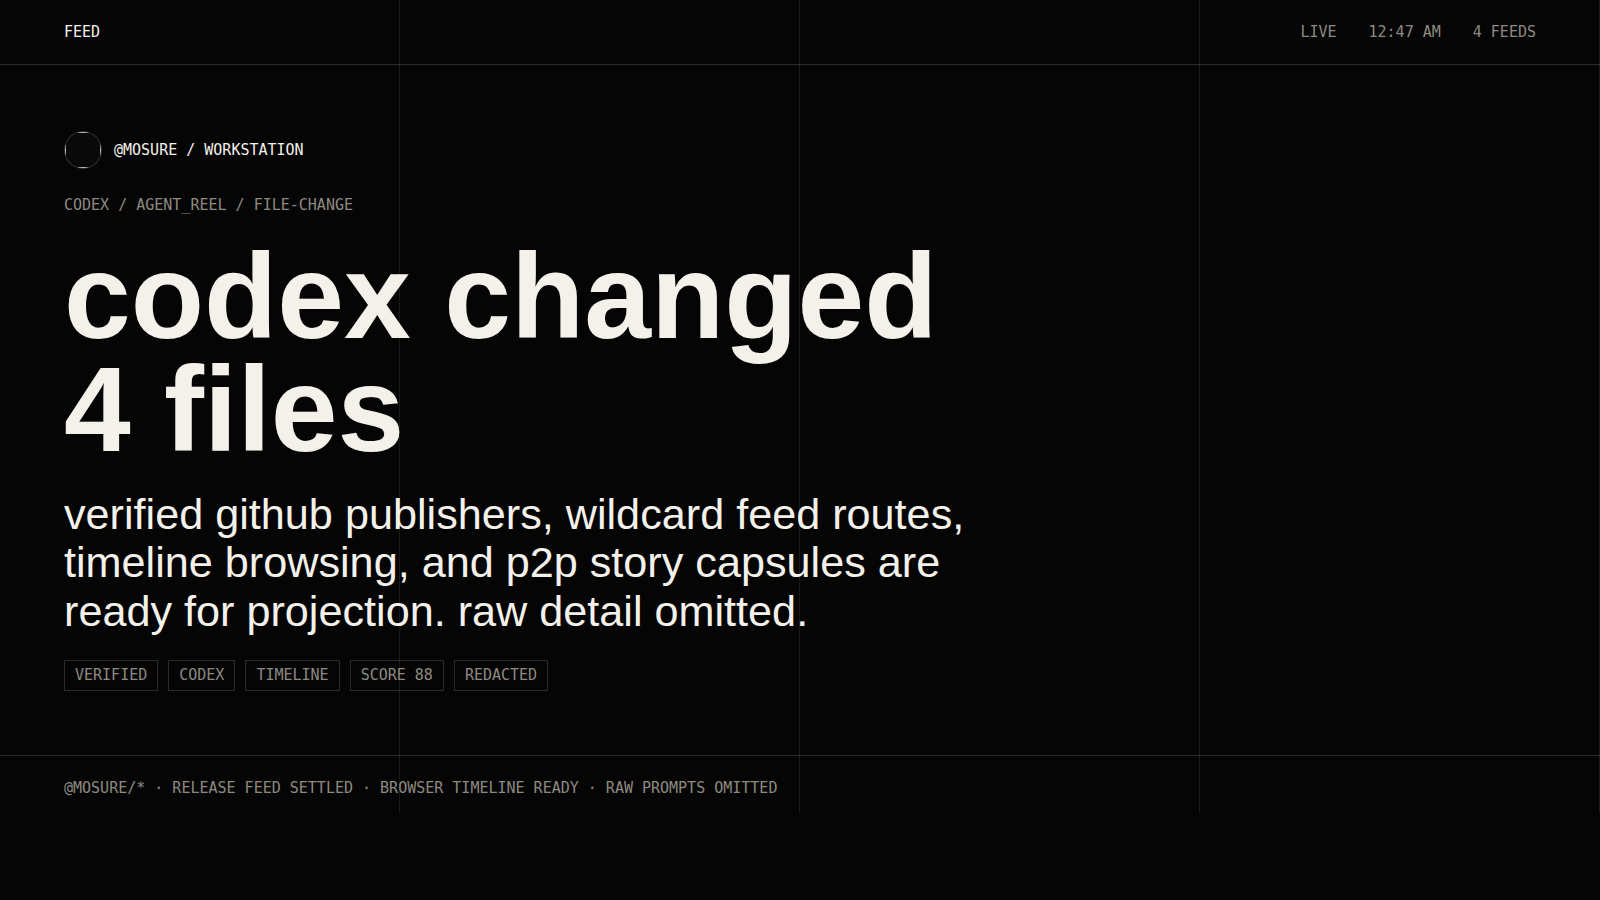
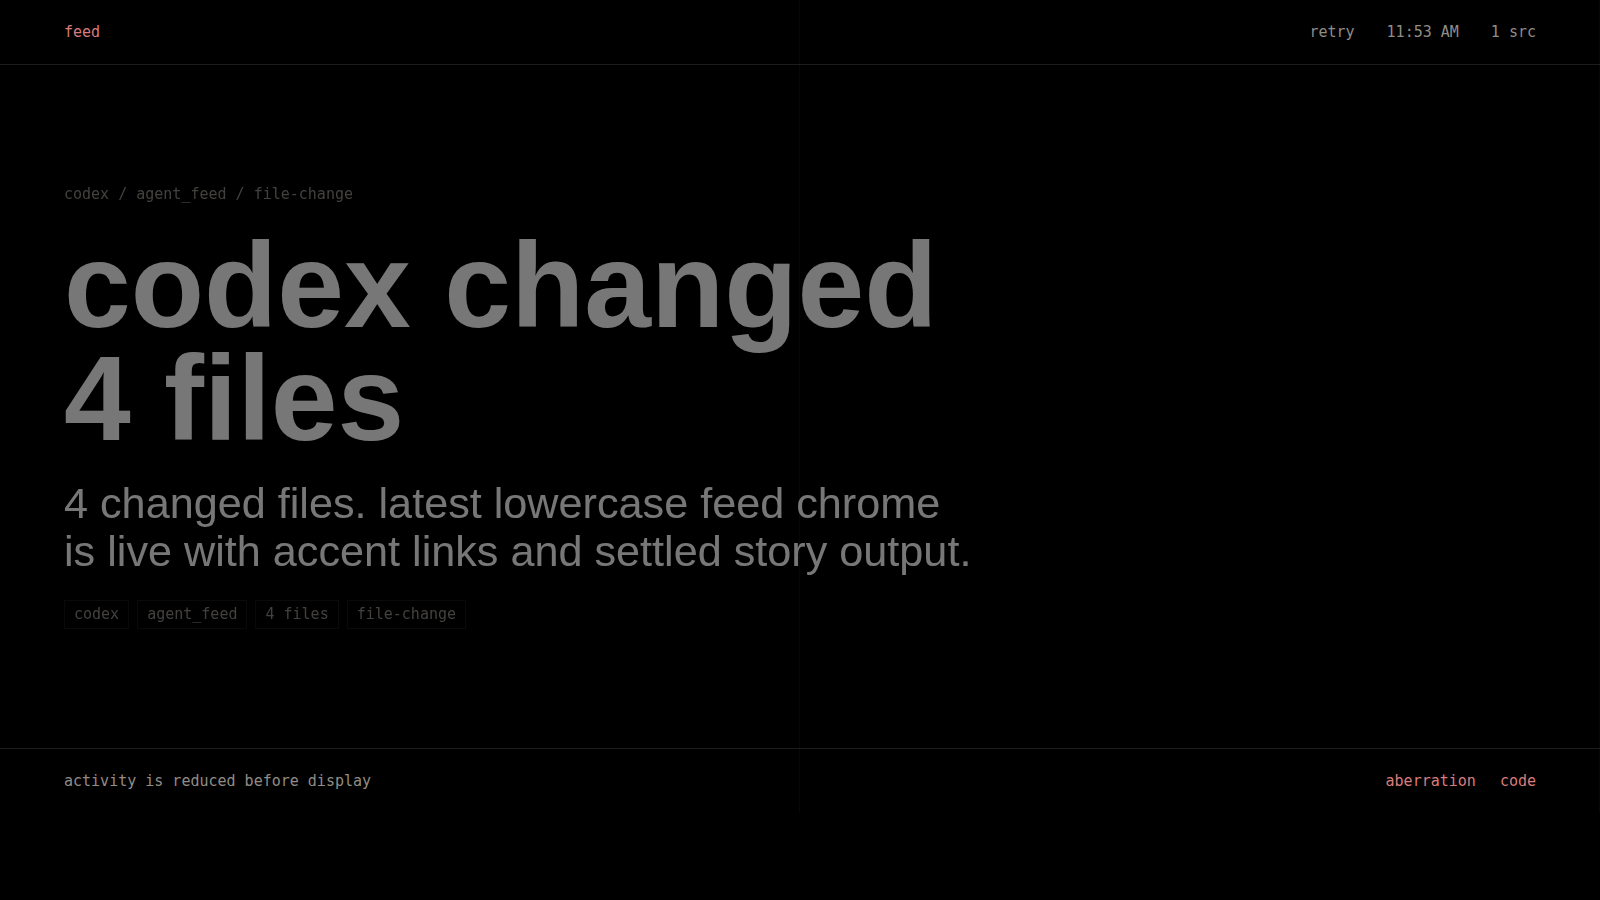
docs: refresh lowercase feed hero

diff --git a/crates/agent_feed_story/src/lib.rs b/crates/agent_feed_story/src/lib.rs
@@ -218,10 +218,10 @@ impl CompiledStory {
     fn eyebrow(&self) -> String {
         let project = self.project.as_deref().unwrap_or("local");
         format!(
-            "{} / {} / {:?}",
-            self.agent.to_ascii_uppercase(),
-            project.to_ascii_uppercase(),
-            self.family
+            "{} / {} / {}",
+            self.agent,
+            project,
+            story_family_label(self.family)
         )
     }
 }
@@ -713,6 +713,12 @@ mod tests {
         assert_eq!(stories.len(), 1);
         assert!(stories[0].headline.contains("codex changed"));
         assert!(stories[0].deck.contains("changed files"));
+        assert!(
+            stories[0]
+                .to_bulletin()
+                .eyebrow
+                .contains("codex / agent_feed / file-change")
+        );
         assert!(!stories[0].deck.contains("raw detail omitted"));
         assert!(!stories[0].deck.contains("cargo test --all"));
     }

diff --git a/crates/agent_feed_highlight/src/lib.rs b/crates/agent_feed_highlight/src/lib.rs
@@ -95,12 +95,7 @@ fn mode_for(kind: EventKind) -> BulletinMode {
 
 fn eyebrow(event: &AgentEvent) -> String {
     let project = event.project.as_deref().unwrap_or("local");
-    format!(
-        "{} / {} / {}",
-        event.agent.to_ascii_uppercase(),
-        project.to_ascii_uppercase(),
-        event.kind.as_str().to_ascii_uppercase()
-    )
+    format!("{} / {} / {}", event.agent, project, event.kind.as_str())
 }
 
 fn deck_fallback(event: &AgentEvent) -> &'static str {
@@ -190,6 +185,6 @@ mod tests {
 
         assert_eq!(bulletin.mode, BulletinMode::Breaking);
         assert!(bulletin.priority >= 90);
-        assert!(bulletin.eyebrow.contains("CODEX / AGENT_FEED"));
+        assert!(bulletin.eyebrow.contains("codex / agent_feed"));
     }
 }

diff --git a/README.md b/README.md
@@ -4,7 +4,10 @@
 
 agent activity, reduced to signal.
 
-![feed projection showing a redacted codex file-change bulletin](docs/image/hero.png)
+![lowercase feed projection showing a settled codex file-change bulletin](docs/image/hero.png)
+
+the browser surface follows the root aberration style: black field, white type,
+secondary accent links, and lowercase chrome.
 
 core shape:
 
